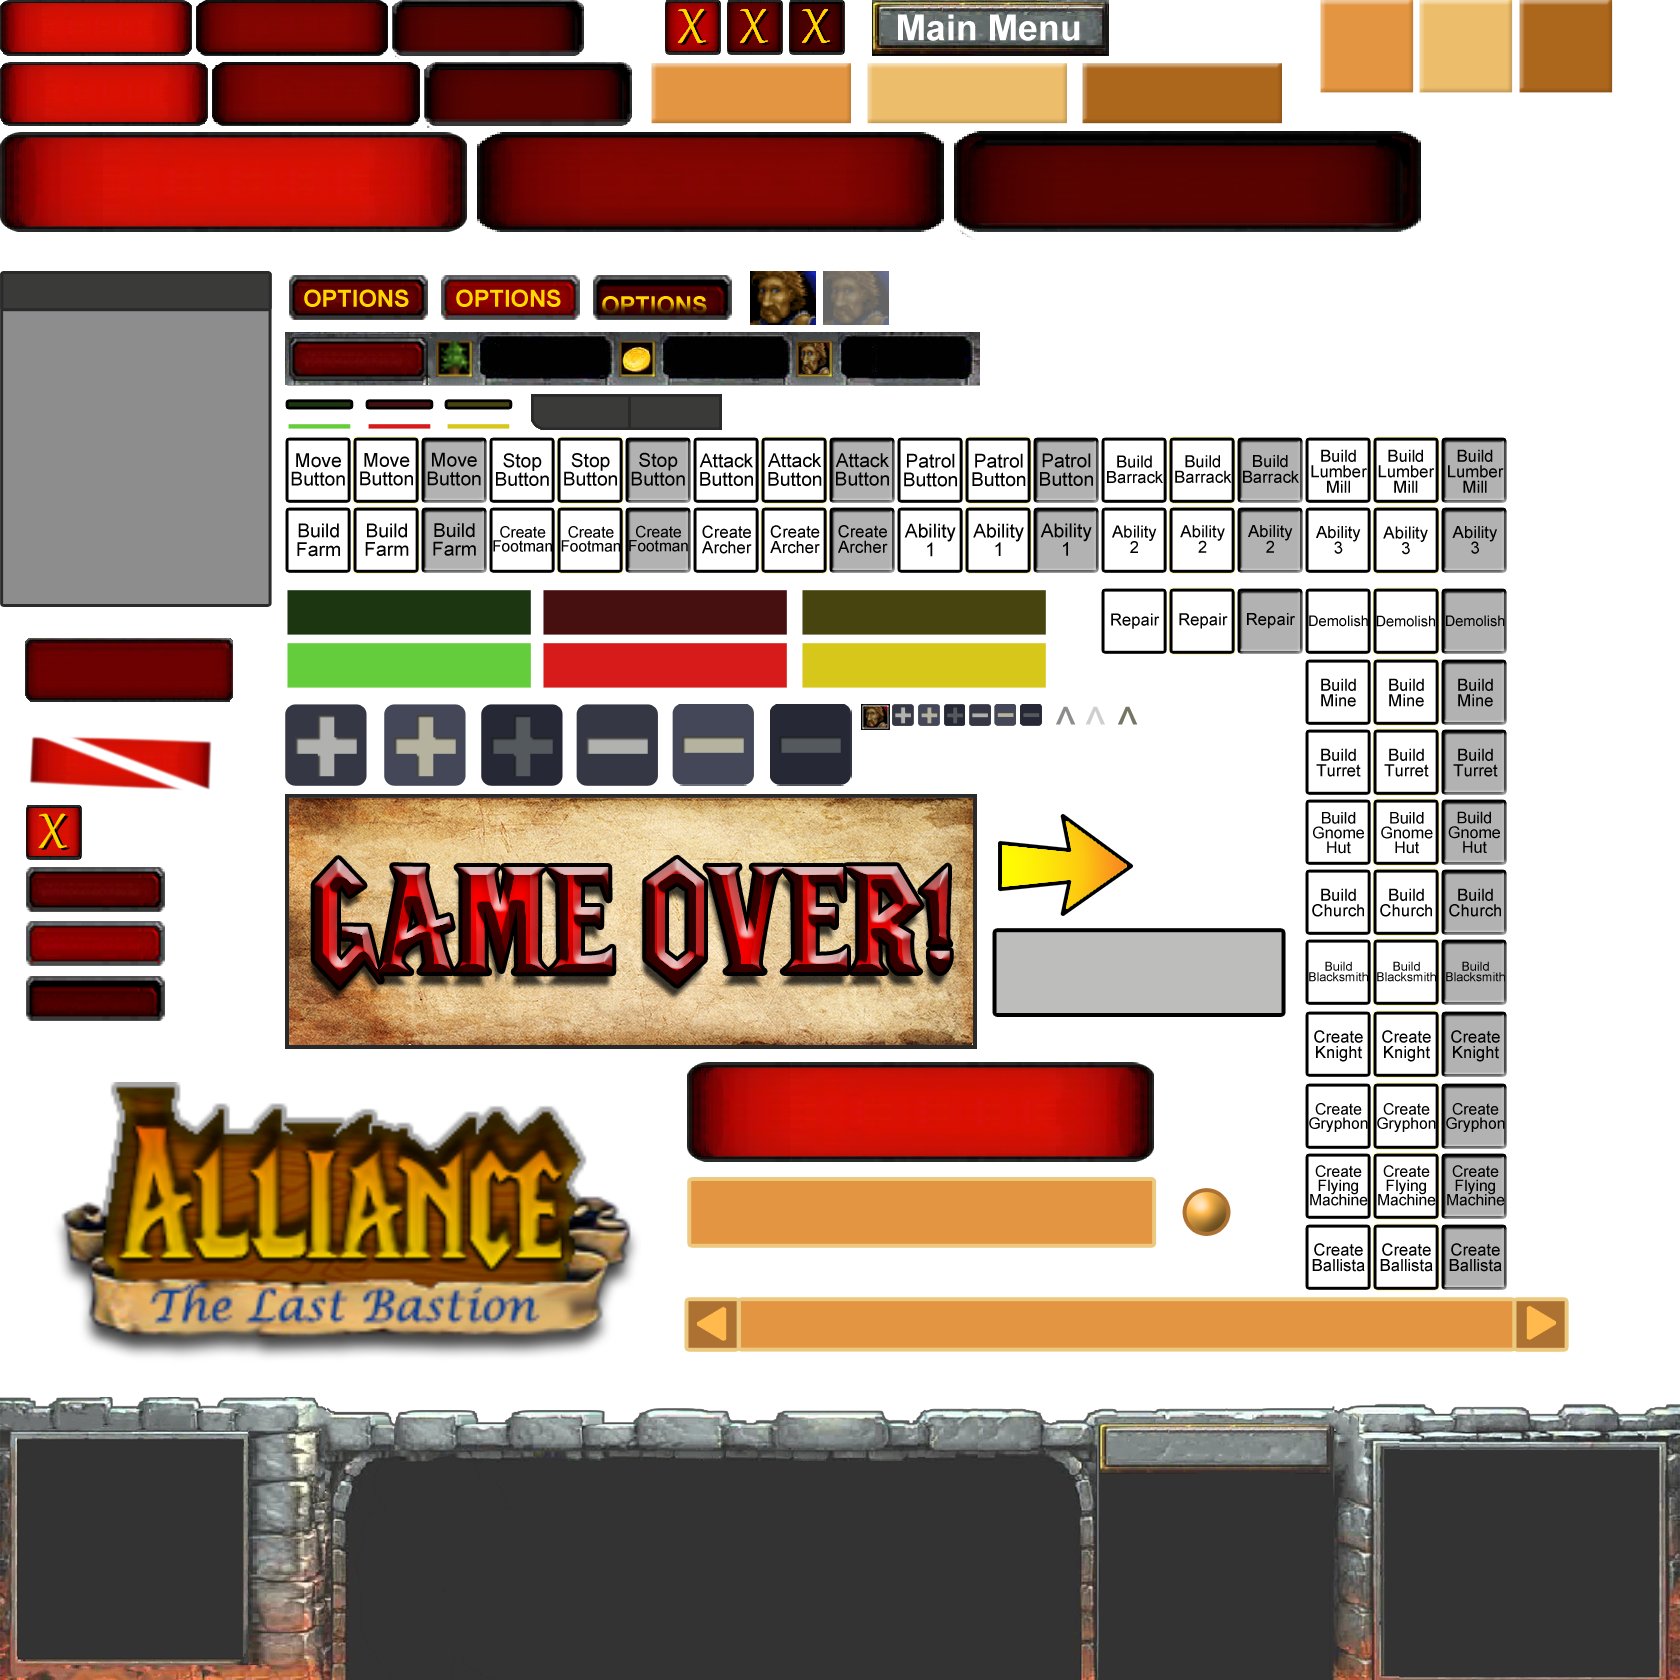
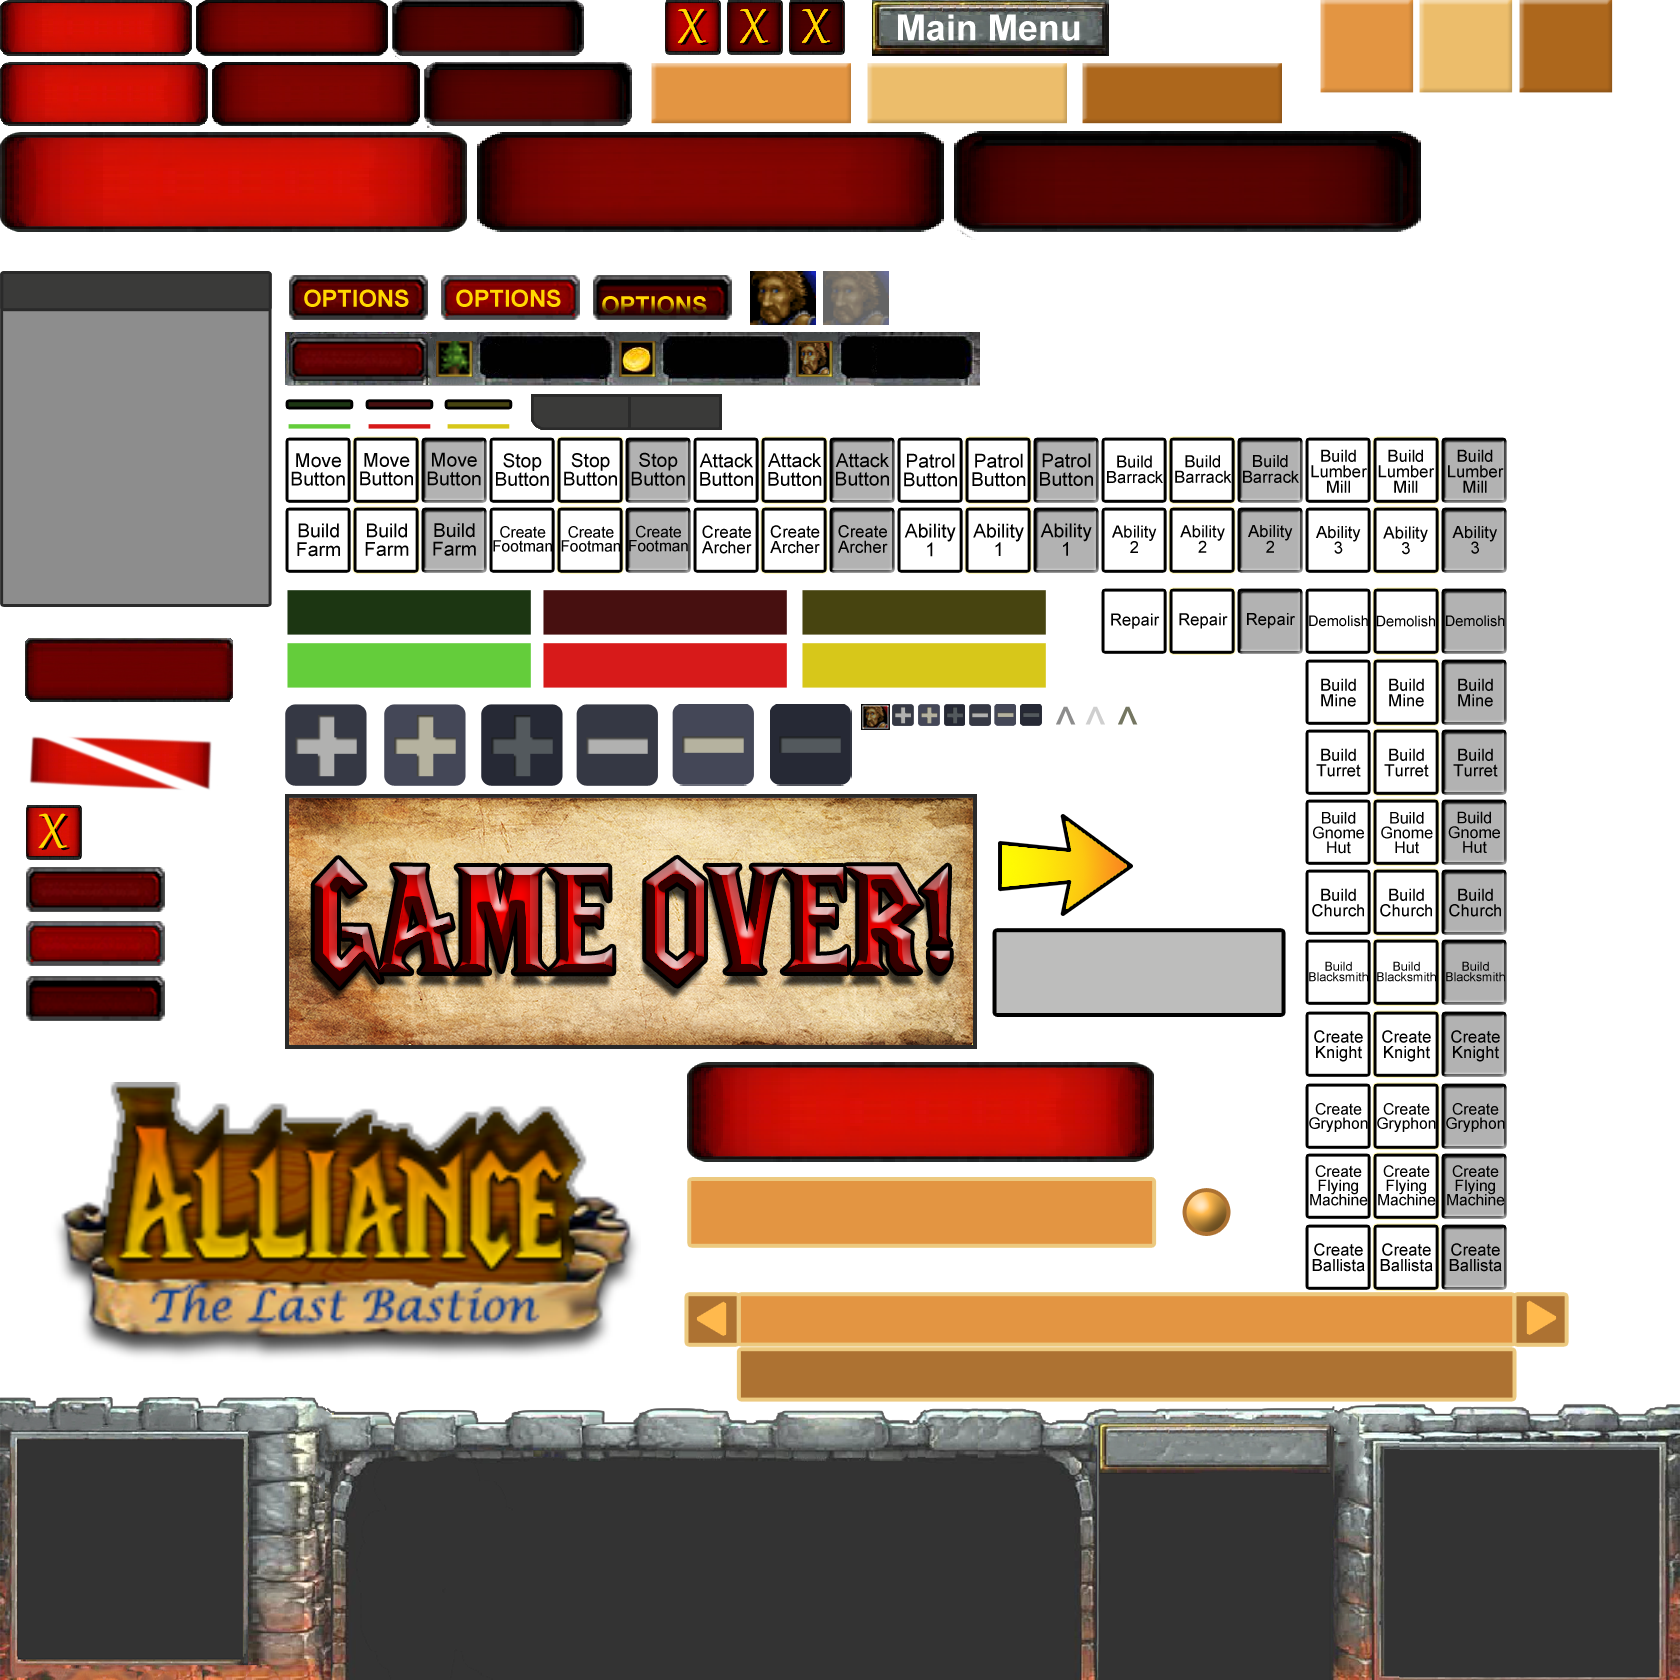
improved sliders

Changed region(s): [[0.4024, 0.7429, 0.9286, 0.8357]]

diff --git a/Motor2D/j1Gui.cpp b/Motor2D/j1Gui.cpp
@@ -199,7 +199,8 @@ bool j1Gui::PostUpdate()
 		if (draggingElement->parent != nullptr && draggingElement->parent->element_type == SLIDER)
 		{
 			Slider* slider = (Slider*)draggingElement->parent;
-			slider->setProgress((slider->getButton()->localPosition.x + slider->getButton()->section.w / (2 / App->gui->w_stretch)) / ((slider->bar_length) * App->gui->w_stretch));
+			Button* button = slider->getButton();
+			slider->setProgress(((float)button->localPosition.x + (float)(button->section.w / 2)) / (float)(slider->bar_length));
 		}
 		draggingElement->state = CLICKED;
 	}
@@ -824,7 +825,7 @@ Slider* j1Gui::createSlider(pugi::xml_node node, j1Module* callback, bool saveIn
 	if (full.w > full.h)
 	{
 		button->setDragable(true, false);
-		button->setLimits(empty.w / (2 / w_stretch), empty.w / (2 / w_stretch), -1, -1);
+		button->setLimits(empty.w /2, empty.w /2, -1, -1);
 	}
 	else
 	{
@@ -833,7 +834,7 @@ Slider* j1Gui::createSlider(pugi::xml_node node, j1Module* callback, bool saveIn
 	}
 
 	ret->appendChild(button, true);
-	button->setOriginalPos(((empty.w * w_stretch) - 7 - button->section.w / (2 / w_stretch)) * 0.5f, y);
+	button->setOriginalPos((empty.w/2 + 1 - button->section.w/2), y);
 
 	ret->setDragable(true, true);
 

diff --git a/Motor2D/UI_Slider.cpp b/Motor2D/UI_Slider.cpp
@@ -33,7 +33,7 @@ void Slider::BlitElement()
 
 	std::string newText = std::to_string((int)(progress*100));
 	progress_num->setText(newText);
-	progress_num->localPosition.x = full.w * App->gui->w_stretch - progress_num->section.w / (2 / App->gui->w_stretch);
+	progress_num->localPosition.x = full.w - progress_num->section.w /2;
 	progress_num->localPosition.y = -progress_num->section.h * App->gui->h_stretch;
 
 	if (progress < 0.01)
